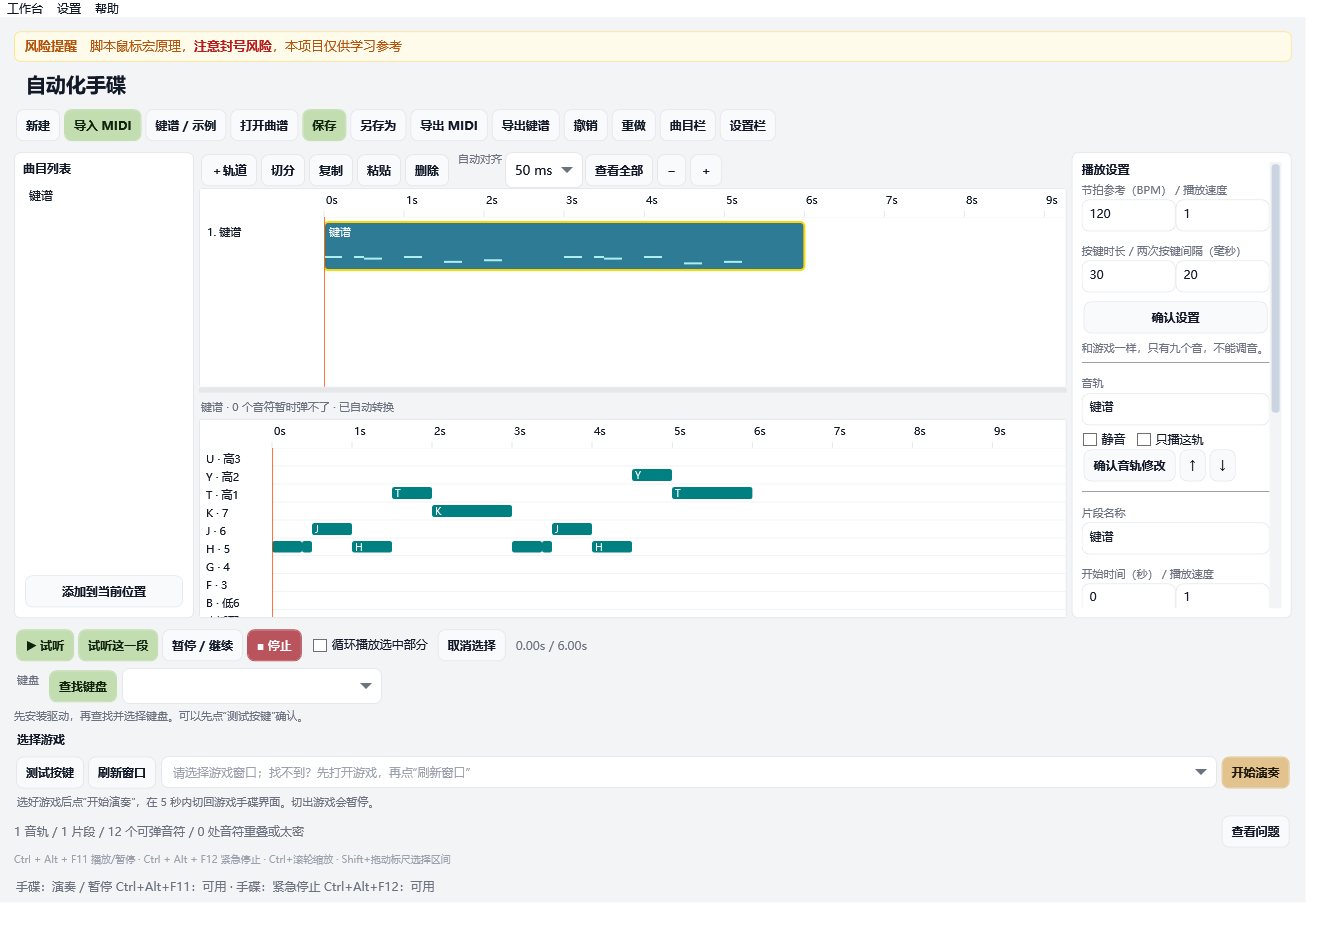
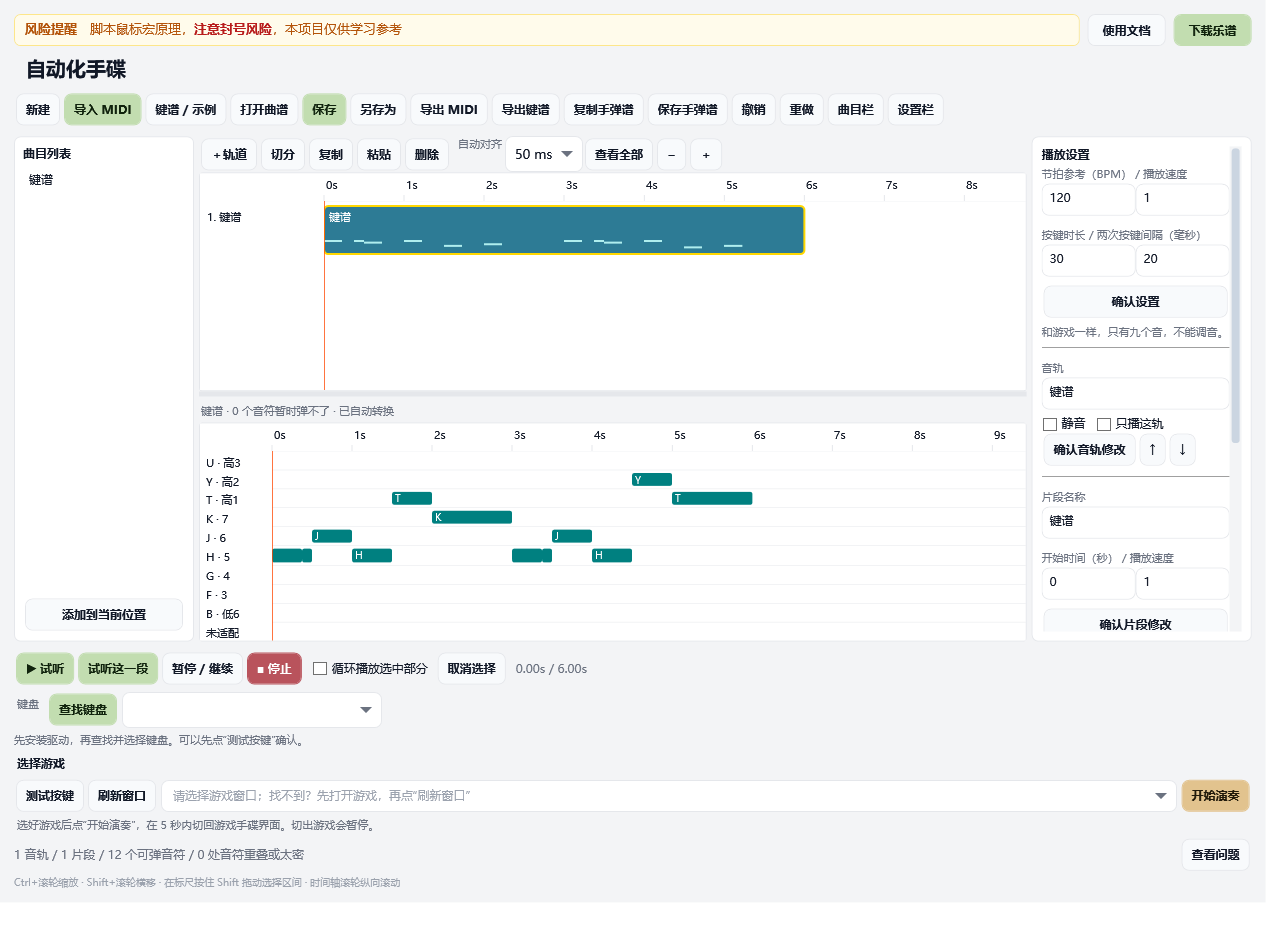
docs: guide players to the handpan score library

diff --git a/docs/handpan/quick-start.md b/docs/handpan/quick-start.md
@@ -2,7 +2,7 @@
 
 目标：先让一小段示例在测试窗口正确弹出，再选择游戏演奏。**“五分钟”指准备好软件和驱动后的基本操作；第一次下载、安装和重启可能需要更久，请不要跳过重启。**
 
-适用：独立自动手碟 0.1.0（2026-09-18 界面），Windows x64。上游仅明确测试到 Windows 10，不能据此保证 Windows 11 或游戏兼容。风险说明见[栏目首页](./)。
+适用：独立自动手碟 0.1.5（2026-09-19 界面），Windows x64。上游仅明确测试到 Windows 10，不能据此保证 Windows 11 或游戏兼容。风险说明见[栏目首页](./)。
 
 ## 1. 准备两个压缩包
 
@@ -41,6 +41,18 @@
 *图 2：2026-09-18 软件实际界面，使用内置示例展示。上方导入曲子，下方选择键盘和游戏；截图不代表已连接设备或游戏验证通过。可在浏览器中单独打开图片放大查看。*
 
 如果只想试听，这时就可以打开软件，不需要先安装驱动。要自动按键，请继续下一步。
+
+### 先认识“下载乐谱”入口
+
+软件右上角有绿色的 **下载乐谱** 按钮，点击会打开地图工坊的[手碟曲库](https://www.mapforge.top/scores)。这里可以找其他玩家分享的九音手碟曲子、查看按键谱，也可以下载作者提供的 MIDI。
+
+1. 点击软件右上角 **下载乐谱**，或直接打开 `https://www.mapforge.top/scores`。
+2. 找到想弹的曲子，先看作品说明和试听；有 MIDI 附件时，将它下载到自己找得到的文件夹。
+3. 回到软件，点击 **导入 MIDI**，选择刚下载的文件。
+4. 选择旋律声部后试听，确认没有过密或重叠问题，再保存为自己的曲谱。
+5. 如果作品只提供按键谱，可以照着网页手弹；带时值的键谱也可以复制到软件的 **键谱 / 示例** 中载入。
+
+只下载和试听不需要驱动。要让软件向游戏自动发送按键，仍需完成下面的驱动安装、本地测试和游戏选择步骤。网站乐谱由玩家分享，下载后请先试听，不要直接在游戏里演奏整首。
 
 ## 3. 安装驱动，然后重启电脑
 
@@ -167,8 +179,8 @@ B F G H J K T Y U H H
 
 切出游戏会暂停；切回去不会自己恢复。继续时使用默认 Ctrl+Alt+F11，等待新的倒计时。随时可用 Ctrl+Alt+F12 停止；若快捷键被占用，请在“设置”中修改，停止快捷键不可用时软件不会开始自动按键。
 
-## 8. 确认短示例正常后，再导入自己的歌
+## 8. 确认短示例正常后，再下载或导入歌曲
 
-点 **新建**清掉测试曲谱，再点 **导入 MIDI**。第一次只选一个主旋律部分，试听后再测试。不要把测试示例和完整歌曲无意中叠在一起。详细说明见[导入歌曲与修改曲谱](./songs)。
+点 **新建**清掉测试曲谱。可以点右上角绿色的 **下载乐谱** 前往[手碟曲库](https://www.mapforge.top/scores)找曲子，也可以使用自己的 MIDI。下载完成后点 **导入 MIDI**，第一次只选一个主旋律部分，试听后再测试。不要把测试示例和完整歌曲无意中叠在一起。详细说明见[导入歌曲与修改曲谱](./songs)。
 
 最后点 **保存**，得到 `.handpan.json` 曲谱文件。下次用“打开曲谱”继续编辑；键盘和游戏窗口需要重新选择。

diff --git a/docs/handpan/songs.md b/docs/handpan/songs.md
@@ -1,6 +1,12 @@
 # 导入歌曲与修改曲谱
 
-适用：独立自动手碟 0.1.0（2026-09-18 界面）。先完成[快速开始](./quick-start)里的短示例测试，再换自己的曲子。
+适用：独立自动手碟 0.1.5（2026-09-19 界面）。先完成[快速开始](./quick-start)里的短示例测试，再换自己的曲子。
+
+## 从手碟曲库下载
+
+点击软件右上角绿色的 **下载乐谱**，会打开地图工坊的[手碟曲库](https://www.mapforge.top/scores)。找到曲子后可以先看按键谱和作品说明；作者提供 MIDI 时，下载后回到软件点击 **导入 MIDI**。只有按键谱的作品可以直接照着手弹，或将带时值的键谱复制到 **键谱 / 示例** 中载入。
+
+下载的 MIDI 仍需选择旋律声部并试听。别人分享的曲子不一定适合当前速度，也不代表已经在你的游戏环境中验证过。
 
 ## 第一次只选主旋律
 

diff --git a/docs/handpan/index.md b/docs/handpan/index.md
@@ -11,6 +11,7 @@
 ## 从这里开始
 
 - 第一次用：[五分钟快速开始](./quick-start)——下载什么、安装驱动、测试键盘、选择游戏，全流程一步步操作。
+- 想直接找别人分享的曲子：[地图工坊手碟曲库](https://www.mapforge.top/scores)——看谱、试听或下载 MIDI；软件右上角也有绿色的“下载乐谱”按钮。
 - 驱动装不上或想卸载：[驱动下载、安装与卸载](./driver)。
 - 已能使用，想换自己的歌：[导入歌曲与修改曲谱](./songs)。
 - 游戏没反应、演奏暂停、曲子弹不了：[常见问题](./troubleshooting)。
